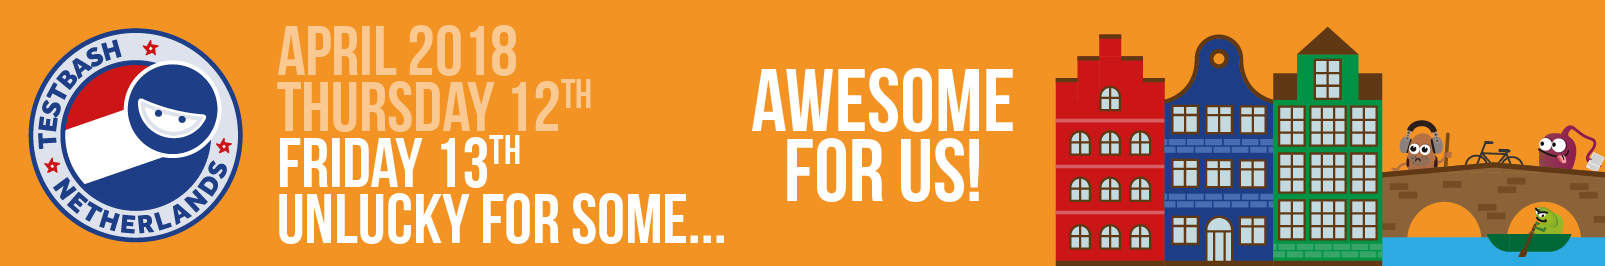
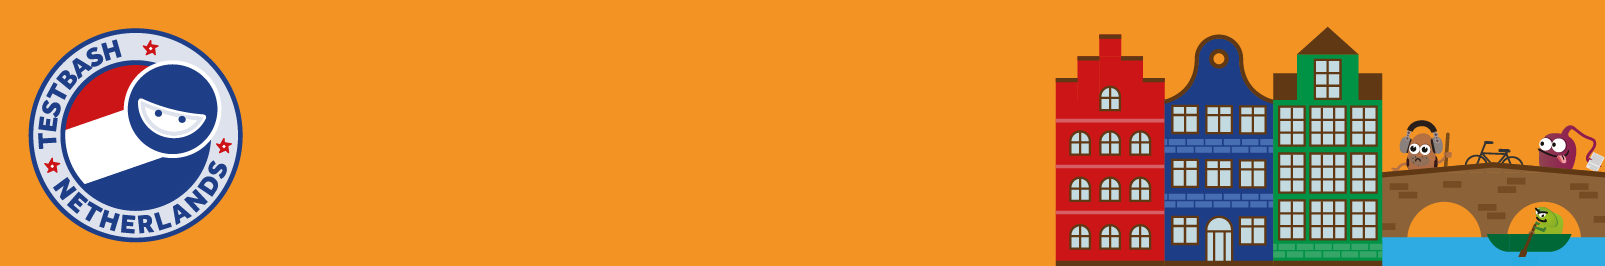
Decreased amount of cover text

Changed region(s): [[0.1558, 0.0902, 0.4673, 0.9323], [0.4673, 0.2406, 0.6542, 0.782]]

diff --git a/css/testbash.css b/css/testbash.css
@@ -3,3 +3,8 @@ section .welcome-slide h1 {
     vertical-align: top;
     top: 0;
 }
+
+.reveal small {
+    font-size: 0.4em;
+    line-height: 0.8em;
+}
